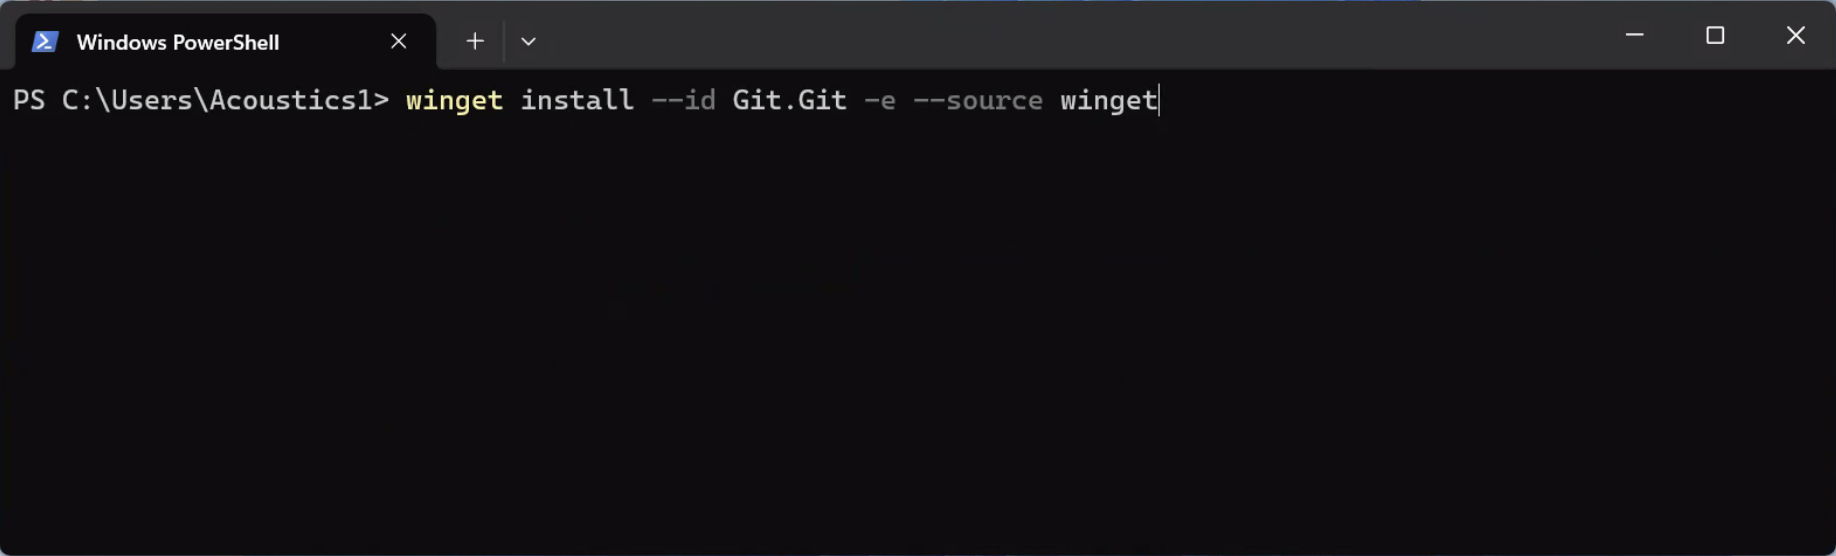
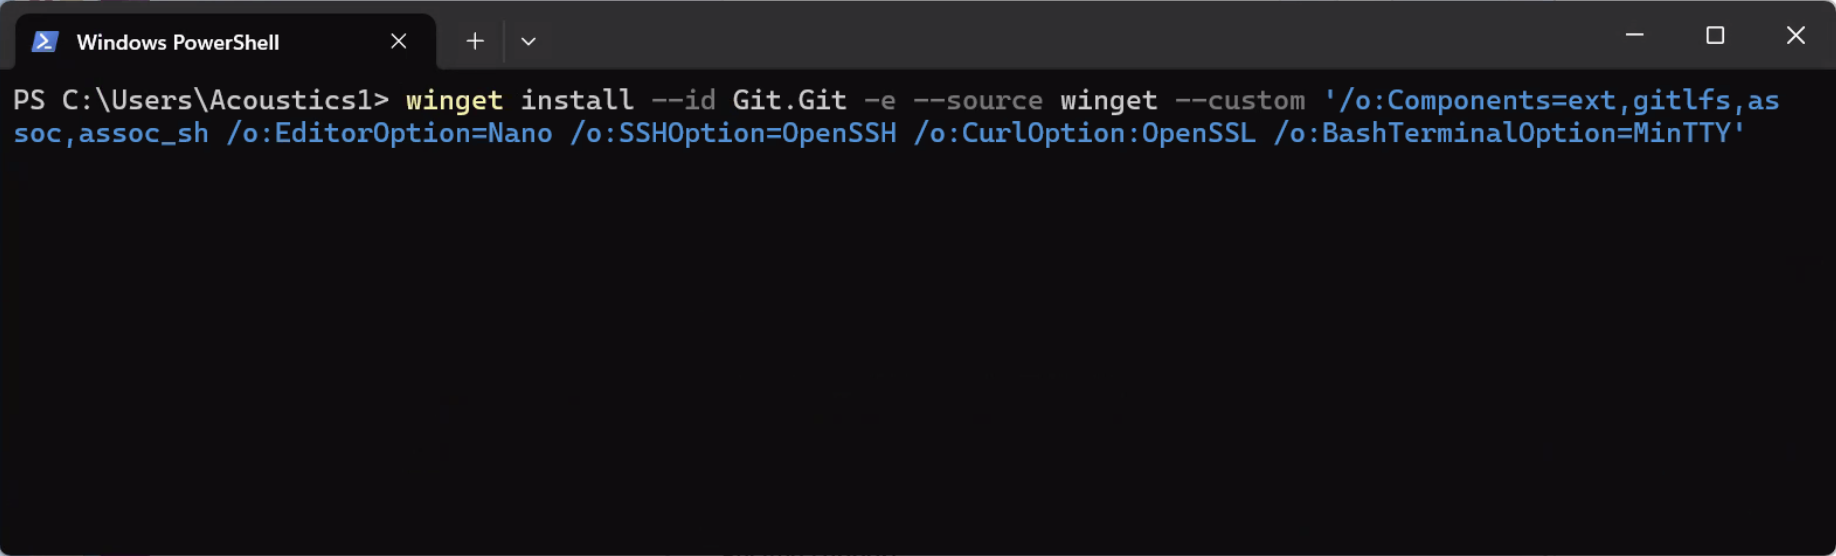
updated winget Git install command to match GUI install settings

Changed region(s): [[0.0, 0.1529, 0.9624, 0.2752], [0.9935, 0.9784, 1.0, 1.0], [0.9935, 0.0, 1.0, 0.0306]]

diff --git a/boat_tutorials/env_setup/local_01_install_git.md b/boat_tutorials/env_setup/local_01_install_git.md
@@ -22,13 +22,25 @@ To launch terminal, go to Spotlight Search or Applications and find the Terminal
 
 ## Windows
 
+Git can be installed two different ways on Windows. The first way is through using Windows' command-line interface (Windows Powershell) which only requires a single command in the interface. The second way is through downloading the Windows installer with a graphical user interface (GUI). 
+
+:::{note}
+For first-time installation of Git, we recommend installation using the GUI to see where Git will be installed on your computer and to easily select the settings specific to your Git software.
+:::
+
 ### Command-line install
 
 Git may be installed using command-line as long as the user has the `winget` tool (installed by-default on Windows 10 and Windows 11), access to internet, and Windows Powershell. This method will install Git with default settings unless [specified as discussed here](https://github.com/microsoft/winget-cli/discussions/3462). 
 
-The command for default Git install using Windows Powershell is:
+:::{attention}
+The provided command is designed to install Git with all the same settings as the GUI install. If you wish to install with change any settings, you may use [this documentation](https://gitforwindows.org/mapping-between-git-installer-gui-settings-and-command-line-arguments.html) to include any custom settings.
+
+A default Git install is commonly shown online as `winget install --id Git.Git -e --source winget`
+:::
+
+The command we recommend for installing Git using Windows Powershell is:
 ```
-winget install --id Git.Git -e --source winget
+winget install --id Git.Git -e --source winget --custom '/o:Components=ext,gitlfs,assoc,assoc_sh /o:EditorOption=Nano /o:SSHOption=OpenSSH /o:CurlOption:OpenSSL /o:BashTerminalOption=MinTTY'
 ```
 
 1) Launch Windows Powershell and enter the command above
